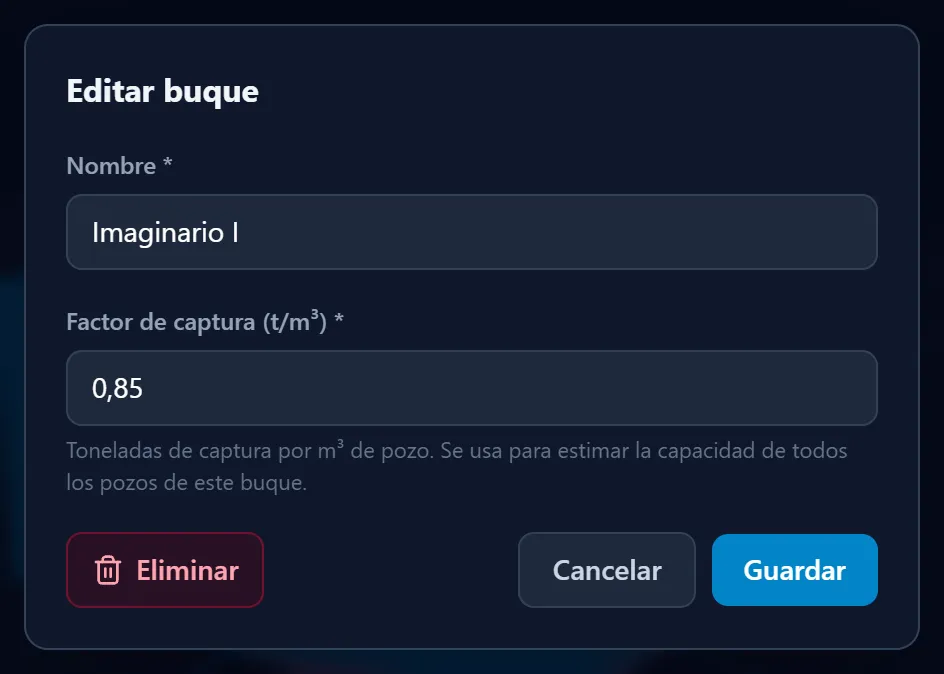
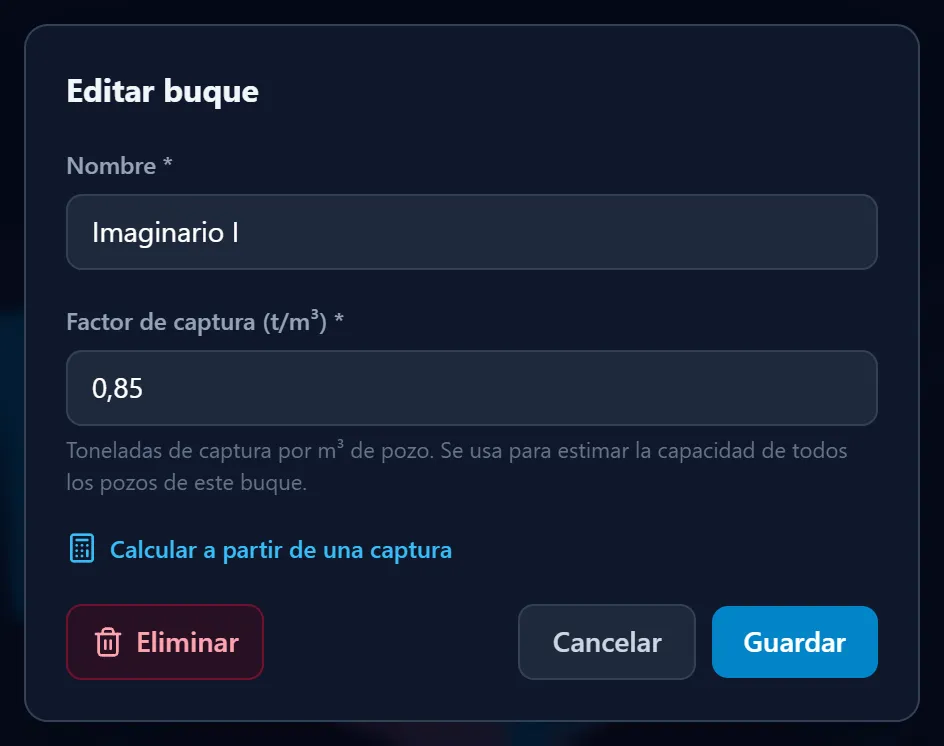
feat(buque): calculadora del factor de captura a partir de kg y m³

diff --git a/src/components/FactorCalculator.vue b/src/components/FactorCalculator.vue
@@ -1,0 +1,100 @@
+<template>
+  <!-- Obtener el factor de una captura conocida, sin hacer la cuenta aparte -->
+  <div class="space-y-2">
+    <button
+      type="button"
+      :aria-expanded="open"
+      @click="toggle"
+      class="flex items-center gap-1.5 text-xs font-semibold text-sky-400 hover:text-sky-300 py-1"
+    >
+      <Calculator class="w-4 h-4" />
+      Calcular a partir de una captura
+    </button>
+
+    <div v-if="open" class="rounded-lg border border-slate-700 bg-slate-950/50 p-3 space-y-2" @keydown.enter="onEnter">
+      <div class="grid grid-cols-2 gap-2">
+        <label class="block space-y-1">
+          <span class="text-xs font-medium text-slate-400">Captura (kg)</span>
+          <input ref="kgRef" v-model="kgText" type="text" inputmode="decimal" autocomplete="off" :class="FIELD" />
+        </label>
+        <label class="block space-y-1">
+          <span class="text-xs font-medium text-slate-400">Volumen ocupado (m³)</span>
+          <input v-model="m3Text" type="text" inputmode="decimal" autocomplete="off" :class="FIELD" />
+        </label>
+      </div>
+
+      <button
+        v-if="volume"
+        type="button"
+        @click="m3Text = volume.text"
+        class="text-[11px] text-sky-400 hover:text-sky-300 underline text-left"
+      >
+        Usar el volumen de {{ volume.name }}: {{ volume.text }} m³
+      </button>
+
+      <p class="text-[11px] text-slate-500">
+        Si el pozo no quedó lleno, poné solo el volumen ocupado. Con varios pozos o mareas, sumá los kg y los m³.
+      </p>
+
+      <div class="flex items-center justify-between gap-2" aria-live="polite">
+        <span v-if="factor" class="text-sm text-slate-200">
+          {{ formatDecimal(kg / 1000) }} t ÷ {{ formatDecimal(m3) }} m³ =
+          <strong class="font-mono text-emerald-400">{{ formatDecimal(factor) }} t/m³</strong>
+        </span>
+        <span v-else class="text-xs text-slate-500">Completá los dos valores.</span>
+        <button
+          type="button"
+          :disabled="!factor"
+          @click="apply"
+          class="shrink-0 px-3 py-2 rounded-lg text-sm font-semibold text-white bg-emerald-600 hover:bg-emerald-500 transition disabled:opacity-40 disabled:cursor-not-allowed"
+        >
+          Usar
+        </button>
+      </div>
+    </div>
+  </div>
+</template>
+
+<script setup>
+import { ref, computed, nextTick } from 'vue'
+import { Calculator } from 'lucide-vue-next'
+import { parseDecimal, formatDecimal } from '../services/decimal'
+import { parseKg, captureFactor } from '../services/factor'
+
+const FIELD = 'w-full bg-slate-800 border border-slate-700 rounded-lg px-3 py-2 text-sm text-white focus:outline-none focus:border-sky-500 select-text'
+
+defineProps({
+  // Pozo abierto, para no tener que copiar su volumen: { name, text } o null
+  volume: { type: Object, default: null }
+})
+const emit = defineEmits(['use'])
+
+const open = ref(false)
+const kgRef = ref(null)
+const kgText = ref('')
+const m3Text = ref('')
+
+const kg = computed(() => parseKg(kgText.value))
+const m3 = computed(() => parseDecimal(m3Text.value))
+const factor = computed(() => captureFactor(kg.value, m3.value))
+
+async function toggle() {
+  open.value = !open.value
+  if (!open.value) return
+  await nextTick()
+  kgRef.value?.focus()
+}
+
+function apply() {
+  if (!factor.value) return
+  emit('use', factor.value)
+  open.value = false
+}
+
+// Enter dentro de la calculadora usa el resultado; no guarda el formulario
+function onEnter(event) {
+  if (event.target.tagName !== 'INPUT') return
+  event.preventDefault()
+  apply()
+}
+</script>

diff --git a/src/components/RecordForm.vue b/src/components/RecordForm.vue
@@ -8,7 +8,7 @@
       role="dialog"
       aria-modal="true"
       aria-labelledby="record-form-title"
-      class="w-full max-w-md bg-slate-900 border border-slate-700 rounded-xl shadow-2xl p-5 space-y-3 select-text"
+      class="w-full max-w-md bg-slate-900 border border-slate-700 rounded-xl shadow-2xl p-5 space-y-3 select-text max-h-full overflow-y-auto"
       @submit.prevent="save"
       @keydown.esc.prevent="close"
     >
@@ -25,6 +25,7 @@
           <DecimalInput v-model="data.factor" :min="0.001" :step="0.01" :class="FIELD" />
           <span class="block text-[11px] text-slate-500">Toneladas de captura por m³ de pozo. Se usa para estimar la capacidad de todos los pozos de este buque.</span>
         </label>
+        <FactorCalculator :volume="pozoVolume" @use="data.factor = $event" />
       </template>
 
       <label v-else class="block space-y-1">
@@ -65,6 +66,8 @@ import { ref, reactive, computed, watch, nextTick } from 'vue'
 import { Trash2 } from 'lucide-vue-next'
 import { useEditorStore, DENSIDAD_POR_DEFECTO } from '../stores/editorStore'
 import DecimalInput from './DecimalInput.vue'
+import FactorCalculator from './FactorCalculator.vue'
+import { formatDecimal } from '../services/decimal'
 
 /** Alta, edición y baja de buques y pozos (según `store.recordForm`). */
 const FIELD = 'w-full bg-slate-800 border border-slate-700 rounded-lg px-3 py-2 text-sm text-white focus:outline-none focus:border-sky-500'
@@ -79,6 +82,13 @@ const isBuque = computed(() => store.recordForm?.tipo === 'buque')
 const title = computed(() => {
   const what = isBuque.value ? 'buque' : 'pozo'
   return store.recordForm?.id ? `Editar ${what}` : `Nuevo ${what}`
+})
+
+// El volumen del pozo abierto solo sirve si el buque que se edita es el suyo
+const pozoVolume = computed(() => {
+  const { id } = store.recordForm ?? {}
+  if (!id || id !== store.selectedBuqueId || !store.selectedPozo || !(store.volumenTotal > 0)) return null
+  return { name: store.selectedPozo.nombre, text: formatDecimal(Number(store.volumenTotal.toFixed(2))) }
 })
 
 // Cargar los datos del registro cada vez que se abre el formulario

diff --git a/tests/factor.test.js b/tests/factor.test.js
@@ -1,0 +1,29 @@
+import { test } from 'node:test'
+import assert from 'node:assert/strict'
+import { parseKg, captureFactor } from '../src/services/factor.js'
+
+test('parseKg: acepta el separador de miles y la coma decimal', () => {
+  assert.equal(parseKg('72000'), 72000)
+  assert.equal(parseKg('72.000'), 72000)
+  assert.equal(parseKg('72 000'), 72000)
+  assert.equal(parseKg('1.250.000'), 1250000)
+  assert.equal(parseKg('72.000,5'), 72000.5)
+  assert.equal(parseKg('42,5'), 42.5)
+  assert.equal(parseKg('42.5'), 42.5)
+  assert.equal(parseKg('0.125'), 0.125)
+  assert.equal(parseKg(''), null)
+  assert.equal(parseKg('mucho'), null)
+})
+
+test('captureFactor: toneladas por metro cúbico con 3 decimales', () => {
+  assert.equal(captureFactor(72000, 90), 0.8)
+  assert.equal(captureFactor(68000, 85.87), 0.792)
+})
+
+test('captureFactor: sin datos válidos no hay resultado', () => {
+  assert.equal(captureFactor(null, 90), null)
+  assert.equal(captureFactor(72000, null), null)
+  assert.equal(captureFactor(72000, 0), null)
+  assert.equal(captureFactor(-1, 90), null)
+  assert.equal(captureFactor(0.001, 90), null)
+})

diff --git a/src/services/factor.js b/src/services/factor.js
@@ -1,0 +1,24 @@
+/**
+ * Factor de captura a partir de una captura conocida:
+ * toneladas capturadas ÷ volumen que ocuparon (m³).
+ */
+import { parseDecimal } from './decimal.js'
+
+/**
+ * Kilos escritos a mano. A diferencia de las medidas, acá es común escribir el
+ * separador de miles: "68.000" son 68 000 kg y no 68.
+ */
+export function parseKg(text) {
+  const t = String(text).trim().replace(/\s/g, '')
+  if (/^[1-9]\d{0,2}(\.\d{3})+(,\d*)?$/.test(t)) {
+    return Number(t.replaceAll('.', '').replace(',', '.'))
+  }
+  return parseDecimal(t)
+}
+
+/** Factor en t/m³ con 3 decimales, o null si los datos no alcanzan. */
+export function captureFactor(kg, m3) {
+  if (!(kg > 0) || !(m3 > 0)) return null
+  const factor = Math.round(kg / m3) / 1000
+  return factor > 0 && Number.isFinite(factor) ? factor : null
+}

diff --git a/docs/06-manual-de-usuario.md b/docs/06-manual-de-usuario.md
@@ -187,6 +187,26 @@ Para cambiarlo: **✎** junto al buque, o clic en **"Factor: … t/m³"** debajo
 ![Formulario para editar el buque, con el nombre y el factor de captura](img/manual/formulario-buque.webp)
 
 
+**Cómo obtenerlo a partir de una captura conocida.** Si sabés cuántos kilos entraron en un pozo, la app hace la cuenta:
+
+1. Abrí el formulario del buque y tocá **Calcular a partir de una captura**.
+2. En **Captura (kg)** poné los kilos descargados (podés escribir 72000 o 72.000).
+3. En **Volumen ocupado (m³)** poné el volumen que ocuparon. Si es el del pozo que tenés abierto, tocá **Usar el volumen de…**.
+4. Revisá el resultado, tocá **Usar** y después **Guardar**.
+
+![Calculadora del factor, con los kilos, el volumen y el resultado](img/manual/calcular-factor.webp)
+
+> Factor (t/m³) = captura (kg) ÷ 1000 ÷ volumen ocupado (m³)
+
+Por ejemplo, 72.000 kg en un pozo de 90 m³ lleno: 72 ÷ 90 = **0,8 t/m³**.
+
+Para que el resultado sea confiable:
+
+- Si el pozo **no quedó lleno**, usá solo el volumen ocupado, no el total.
+- Con **varios pozos o mareas**, sumá todos los kilos y todos los metros cúbicos. No promedies los factores sueltos.
+- Usá siempre el mismo criterio de peso (por ejemplo, solo pescado, sin hielo ni cajones) y estimá después con ese criterio.
+- La app guarda **un solo factor por buque**: si cambiás de especie o de forma de estiba, revisalo.
+
 **Cómo obtenerlo a partir de una muestra:**
 
 > Factor (t/m³) = peso de la muestra (t) ÷ volumen de la muestra (m³)

diff --git a/docs/02-arquitectura-y-stack.md b/docs/02-arquitectura-y-stack.md
@@ -169,6 +169,7 @@ cubicador/
 │   │   ├── BottomNav.vue        # Barra inferior del modo compacto
 │   │   ├── DimensionOverlay.vue # Cotas dibujadas sobre el visor (SVG)
 │   │   ├── ExportImageDialog.vue # Elegir el fondo antes de exportar el PNG
+│   │   ├── FactorCalculator.vue # Factor de captura a partir de kg y m³
 │   │   ├── MeasurePanel.vue     # Panel de la herramienta Medir
 │   │   ├── ModelModeToggle.vue  # Edición / Vista previa
 │   │   ├── MoreMenu.vue         # Menú "Más" del modo compacto
@@ -186,6 +187,7 @@ cubicador/
 │   │   ├── dialog.js            # API de los diálogos (confirmDialog, promptDialog…)
 │   │   ├── dimensions.js        # Cotas automáticas, cotas a mano e imán de Medir
 │   │   ├── exportImage.js       # Colores, dibujo de cotas y descarga del PNG
+│   │   ├── factor.js            # Cálculo del factor de captura (t/m³)
 │   │   ├── geometryCatalog.js   # Las 10 figuras navales, fórmulas y mallas
 │   │   ├── install.js           # Instalación de la PWA
 │   │   ├── layout.js            # Tamaño de pantalla y panel abierto (diseño adaptable)

diff --git a/docs/05-guia-de-uso-y-convenciones.md b/docs/05-guia-de-uso-y-convenciones.md
@@ -126,6 +126,7 @@ En la barra superior, junto a cada desplegable:
 | ↺ | Reiniciar el pozo, dejándolo con una caja base (se puede deshacer). |
 
 - **Factor de captura (t/m³):** se carga en cada buque y vale para todos sus pozos. También se abre haciendo clic en "Factor" debajo de la capacidad de captura.
+- **Calculadora del factor:** en el formulario del buque, **Calcular a partir de una captura** divide los kg (en toneladas) por el volumen ocupado; acepta el separador de miles en los kilos.
 - **Capacidad de captura estimada** = volumen del pozo × factor del buque.
 - **Eliminar** pide confirmación, indica cuántos pozos y piezas se borran y guarda antes una copia automática (se restaura desde el menú de respaldos). El borrado no se deshace con `Ctrl+Z`.
 
